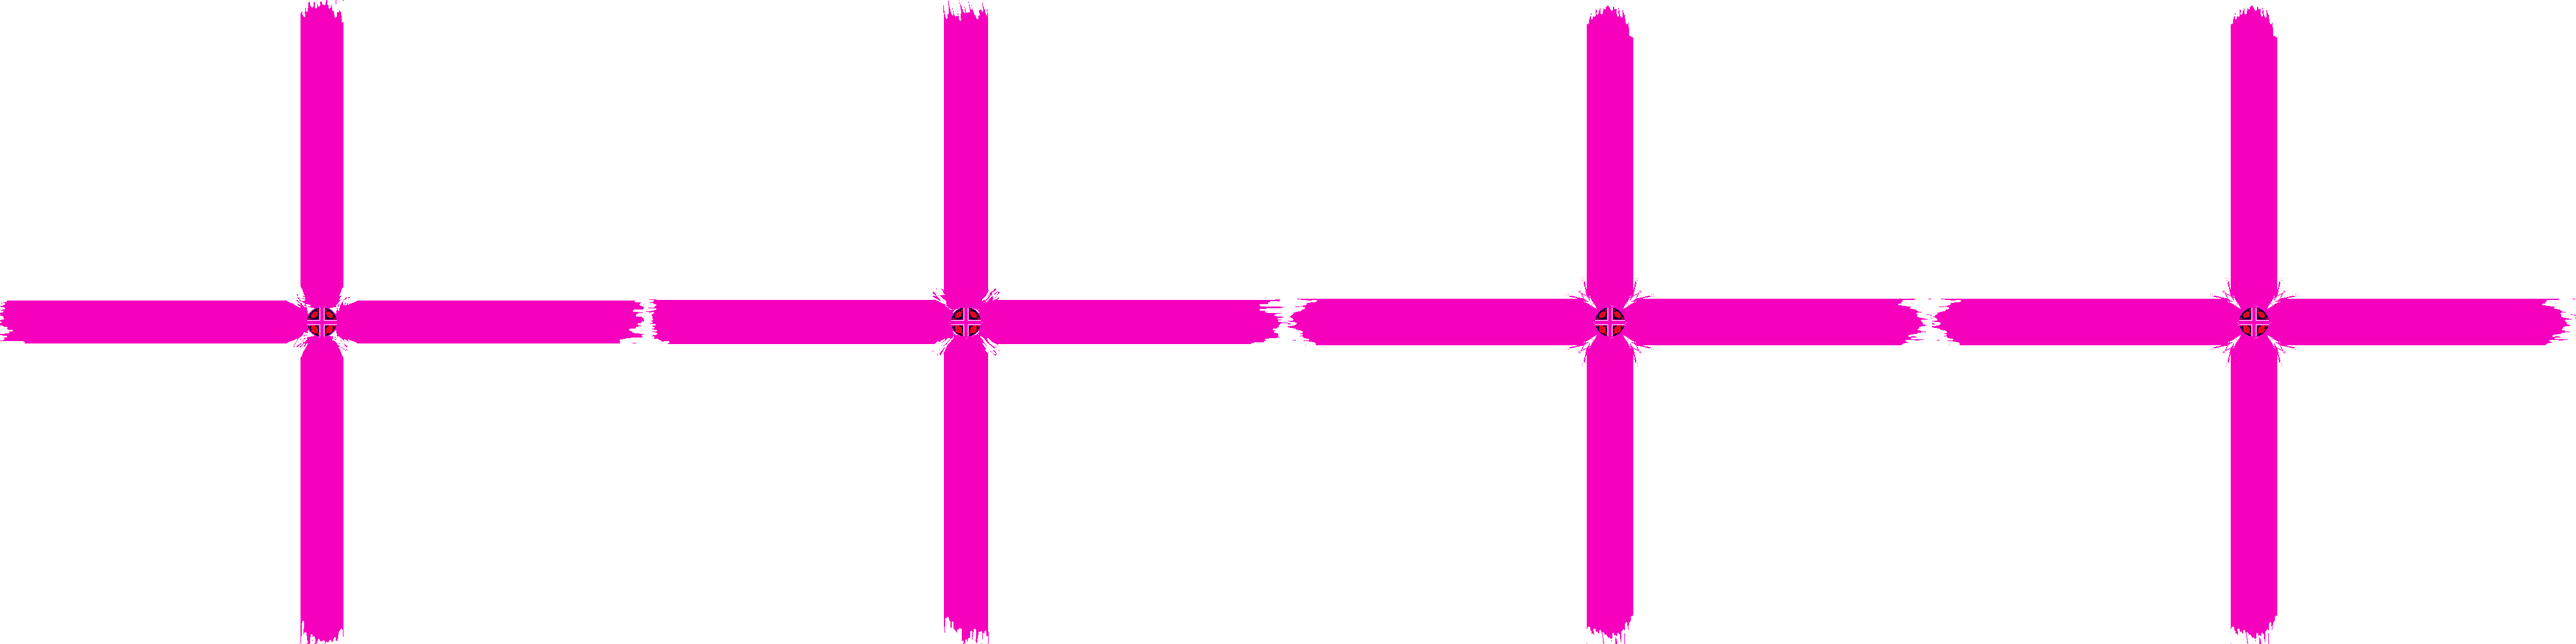
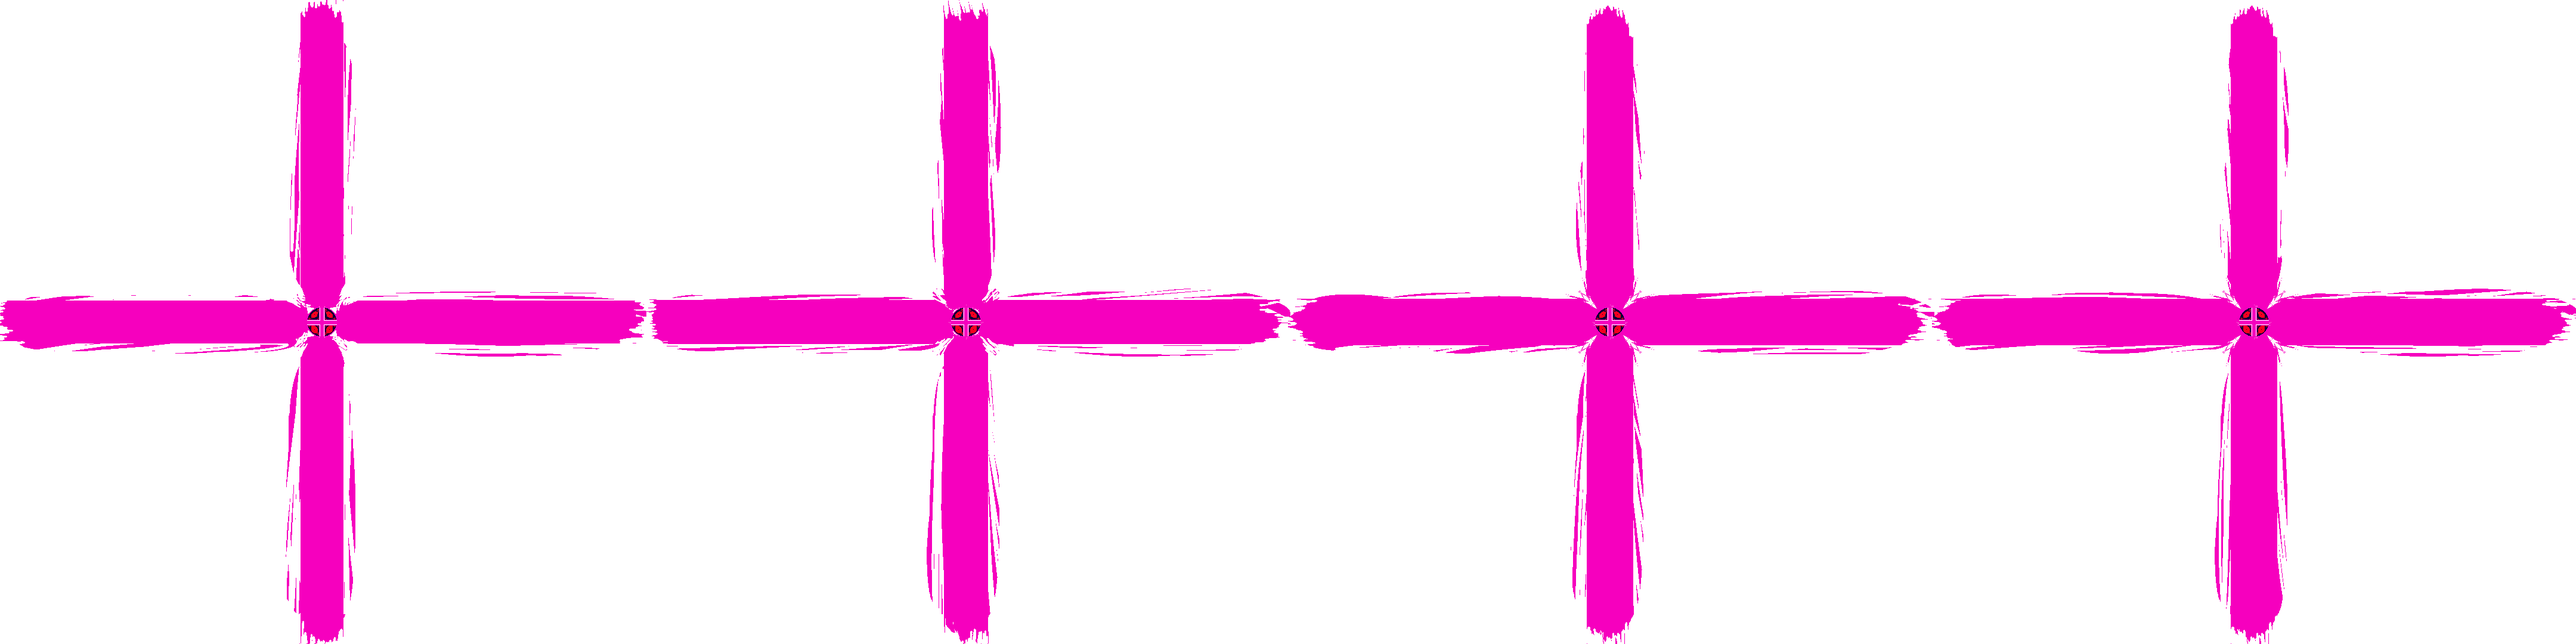
change beam sprite, added salsh count crash sprite

diff --git a/DX21_05_Init/Enemy.cpp b/DX21_05_Init/Enemy.cpp
@@ -2000,10 +2000,10 @@ BeamEnemy::BeamEnemy(float x, float y) : Enemy(x, y, 150.0f) {
     // for the animation
     anim.AddClip("idle", 0, 2, 1, 3, 0.25f, true, g_beamEnemyIdleTexture);
     anim.AddClip("pre_attack", 0, 3, 1, 4, 0.8f, false, g_beamEnemyPreAttackTexture);
-    anim.AddClip("attack", 0, 3, 1, 4, 0.1f, false, g_beamEnemyAttackTexture);
+    anim.AddClip("attack", 0, 3, 1, 4, 0.06f, true, g_beamEnemyAttackTexture);
     anim.AddClip("post_attack", 0, 2, 1, 3, 0.15f, false, g_beamEnemyPostAttackTexture);
     anim.AddClip("pre_death", 0, 5, 1, 6, 0.15f, false, g_beamEnemyPreDeathTexture);
-    anim.AddClip("death", 0, 2, 1, 3, 0.1f, false, g_beamEnemyDeathTexture);
+    anim.AddClip("death", 0, 5, 1, 6, 0.06f, false, g_beamEnemyDeathTexture);
     anim.AddClip("post_death", 0, 2, 1, 3, 0.15f, false, g_beamEnemyPostDeathTexture);
 
     anim.SetClip("idle");
